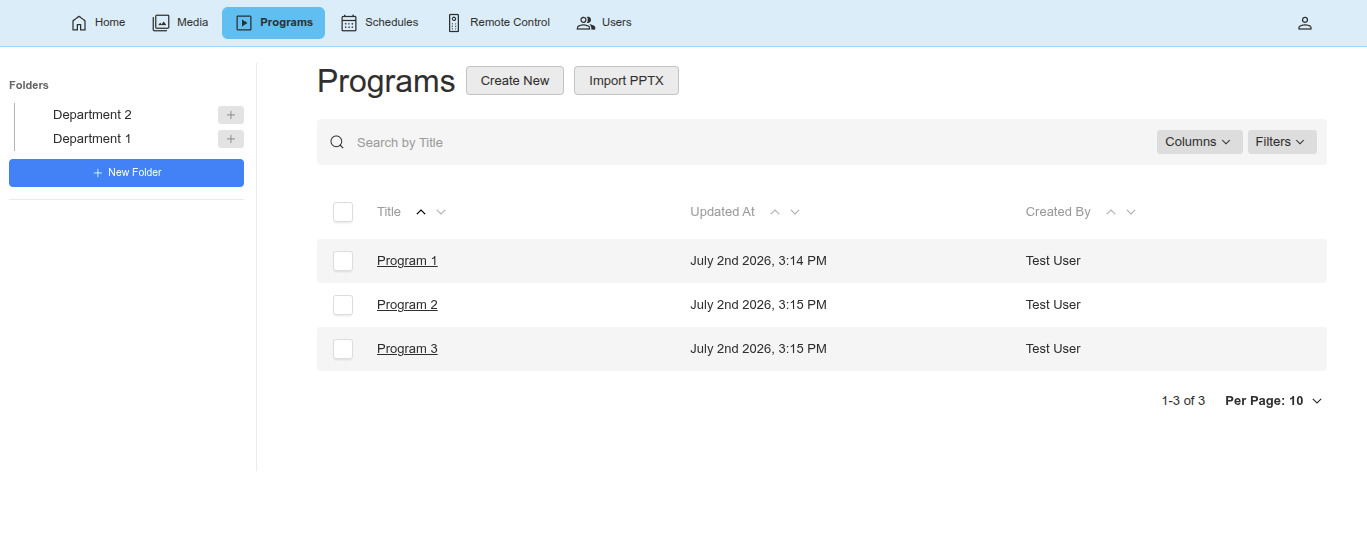
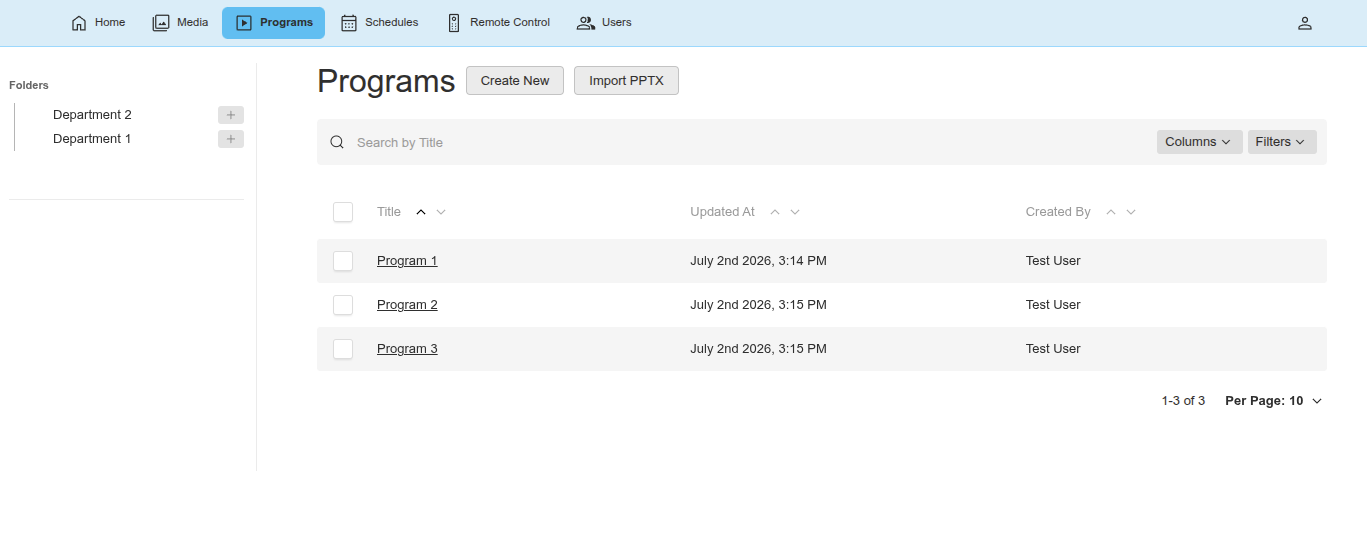
remove root folder button

Changed region(s): [[0.0, 0.2957, 0.1843, 0.3549]]

diff --git a/apps/server/src/__tests__/unit/hooks/folderBeforeChange.test.ts b/apps/server/src/__tests__/unit/hooks/folderBeforeChange.test.ts
@@ -81,8 +81,16 @@ describe('folderBeforeChange', () => {
       ).rejects.toThrow('Maximum folder nesting depth is 3 levels')
     })
 
-    it('allows no parent (root folder)', async () => {
+    it('rejects root folder creation for non-admin users', async () => {
       const req = makeReq()
+      const data = { name: 'Root' }
+      await expect(
+        folderBeforeChange({ data, req, operation: 'create' } as any)
+      ).rejects.toThrow('Creating a top-level folder is not allowed')
+    })
+
+    it('allows root folder creation for admin users', async () => {
+      const req = makeReq({}, { role: 'admin', departments: [{ id: 10 }] })
       const data = { name: 'Root' }
       const result = await folderBeforeChange({ data, req, operation: 'create' } as any)
       expect(result).toEqual(data)
@@ -116,14 +124,16 @@ describe('folderBeforeChange', () => {
   describe('non-admin default department', () => {
     it('assigns first department to non-admin user without data.department', async () => {
       const req = makeReq()
-      const data = {}
+      req.payload.findByID.mockResolvedValue({ department: 10 })
+      const data = { parent: 5 }
       const result = await folderBeforeChange({ data, req, operation: 'create' } as any)
       expect(result.department).toBe(10)
     })
 
-    it('does not override data.department for non-admin user', async () => {
+    it('does not override data.department for non-admin user when parent has no department', async () => {
       const req = makeReq()
-      const data = { department: 20 }
+      req.payload.findByID.mockResolvedValue({ department: null })
+      const data = { parent: 5, department: 20 }
       const result = await folderBeforeChange({ data, req, operation: 'create' } as any)
       expect(result.department).toBe(20)
     })
@@ -133,6 +143,35 @@ describe('folderBeforeChange', () => {
       const data = {}
       const result = await folderBeforeChange({ data, req, operation: 'create' } as any)
       expect(result.department).toBeUndefined()
+    })
+  })
+
+  describe('parent department validation', () => {
+    it('allows non-admin to create sub-folder with parent in their department', async () => {
+      const req = makeReq()
+      req.payload.findByID.mockResolvedValue({ department: 10 })
+      const data = { parent: 5 }
+      await expect(
+        folderBeforeChange({ data, req, operation: 'create' } as any)
+      ).resolves.not.toThrow()
+    })
+
+    it('rejects non-admin creating sub-folder with parent outside their departments', async () => {
+      const req = makeReq()
+      req.payload.findByID.mockResolvedValue({ department: 99 })
+      const data = { parent: 5 }
+      await expect(
+        folderBeforeChange({ data, req, operation: 'create' } as any)
+      ).rejects.toThrow('Parent folder is not in one of your departments.')
+    })
+
+    it('allows non-admin with no departments to create sub-folder when parent has no department', async () => {
+      const req = makeReq({}, { departments: [] })
+      req.payload.findByID.mockResolvedValue({ department: null })
+      const data = { parent: 5 }
+      await expect(
+        folderBeforeChange({ data, req, operation: 'create' } as any)
+      ).resolves.not.toThrow()
     })
   })
 })

diff --git a/apps/server/src/components/FolderTree.tsx b/apps/server/src/components/FolderTree.tsx
@@ -96,18 +96,6 @@ const s = {
     color: 'var(--theme-elevation-800, #1f2937)',
     flexShrink: 0,
   } as React.CSSProperties,
-  newFolderBtn: {
-    background: 'var(--theme-primary-500, #3b82f6)',
-    color: '#fff',
-    border: 'none',
-    borderRadius: 4,
-    cursor: 'pointer',
-    padding: '4px 12px',
-    fontSize: '0.8rem',
-    width: '100%',
-    marginTop: 8,
-    fontWeight: 500,
-  } as React.CSSProperties,
   inlineForm: {
     display: 'flex',
     gap: 4,
@@ -142,7 +130,7 @@ export function FolderTree() {
   const [folders, setFolders] = useState<Folder[]>([])
   const [expanded, setExpanded] = useState<Set<number>>(new Set())
   const [activeFolder, setActiveFolder] = useState<number | 'unfiled' | null>(null)
-  const [showNewFolder, setShowNewFolder] = useState<number | 'root' | null>(null)
+  const [showNewFolder, setShowNewFolder] = useState<number | null>(null)
   const [newName, setNewName] = useState('')
   const [loading, setLoading] = useState(true)
 
@@ -264,7 +252,7 @@ export function FolderTree() {
     }
   }
 
-  const startNewFolder = (parentId: number | 'root') => {
+  const startNewFolder = (parentId: number) => {
     setShowNewFolder(parentId)
     setNewName('')
   }
@@ -385,14 +373,6 @@ export function FolderTree() {
         ) : (
           folders.map((f, idx, arr) => renderNode(f, idx === arr.length - 1))
         )}
-
-      {showNewFolder === 'root' && renderInlineForm(null, 0)}
-
-      {showNewFolder !== 'root' && (
-        <button onClick={() => startNewFolder('root')} style={s.newFolderBtn}>
-          <AddIcon size={14} /> New Folder
-        </button>
-      )}
     </div>
   )
 }

diff --git a/apps/server/src/hooks/folderBeforeChange.ts b/apps/server/src/hooks/folderBeforeChange.ts
@@ -12,6 +12,21 @@ export const folderBeforeChange: CollectionBeforeChangeHook = async ({ data, req
       id: parentId,
       depth: 0,
     })
+
+    if (user && user.role !== 'admin') {
+      const deptIds = (user.departments || []).map((d: any) =>
+        typeof d === 'object' ? d.id : d
+      )
+      const parentDeptId = parent?.department
+        ? typeof parent.department === 'object'
+          ? parent.department.id
+          : parent.department
+        : null
+      if (parentDeptId && deptIds.length > 0 && !deptIds.includes(parentDeptId)) {
+        throw new Error('Parent folder is not in one of your departments.')
+      }
+    }
+
     if (parent?.department) {
       data.department =
         typeof parent.department === 'object'
@@ -24,6 +39,9 @@ export const folderBeforeChange: CollectionBeforeChangeHook = async ({ data, req
     const deptIds = (user.departments || []).map((d: any) =>
       typeof d === 'object' ? d.id : d
     )
+    if (!data.parent && operation === 'create') {
+      throw new Error('Creating a top-level folder is not allowed. Please select a parent folder.')
+    }
     if (deptIds.length > 0 && !data.department) {
       data.department = deptIds[0]
     }

diff --git a/guides/admin-guide.md b/guides/admin-guide.md
@@ -202,15 +202,15 @@ Folders provide hierarchical organization for Media and Programs, scoped per dep
 
 ### Creating Folders
 
-1. In the folder sidebar, click the **+ New Folder** button, or click the inline **+** button next to a parent folder.
+1. In the folder sidebar, click the **+** button next to an existing parent folder to create a sub-folder.
 2. Enter the folder name.
 3. Select the folder type (media or programs).
-4. Choose a parent folder (optional — root folders have no parent).
+4. Choose a parent folder (required).
 5. Click **Save**.
 
 **Rules:**
 - Folders can be nested up to **3 levels deep** (root > level 1 > level 2).
-- A folder's department is automatically inherited from its parent. Root folders are assigned to your first department.
+- A folder's department is automatically inherited from its parent. Root folders are auto-created per department — non-admin users cannot create root-level folders.
 - You cannot delete a folder that contains items or sub-folders.
 
 ### Moving Items Between Folders

diff --git a/guides/user-guide.md b/guides/user-guide.md
@@ -100,12 +100,12 @@ Use the folder sidebar to keep your media organized:
 > - **Events**: "VBS 2026", "Christmas Program 2026"
 
 **To create a new folder:**
-1. Click the **+ New Folder** button in the folder sidebar, or click the **+** button next to an existing folder to create a sub-folder.
+1. Click the **+** button next to an existing folder (such as your department root folder) to create a sub-folder.
 2. Enter the folder name.
 3. The folder's department is automatically inherited from its parent.
 4. Click **Save**.
 
-For example, create a folder called "Summer 2026" and then add sub-folders inside it for each week's lesson. This keeps all your weekly visuals, videos, and activity sheets neatly organized.
+For example, click the **+** button next to your department's root media folder to create a folder called "Summer 2026", then add sub-folders inside it for each week's lesson. This keeps all your weekly visuals, videos, and activity sheets neatly organized.
 
 Folders can be nested up to 3 levels deep. You cannot delete a folder that still contains media files or sub-folders.
 